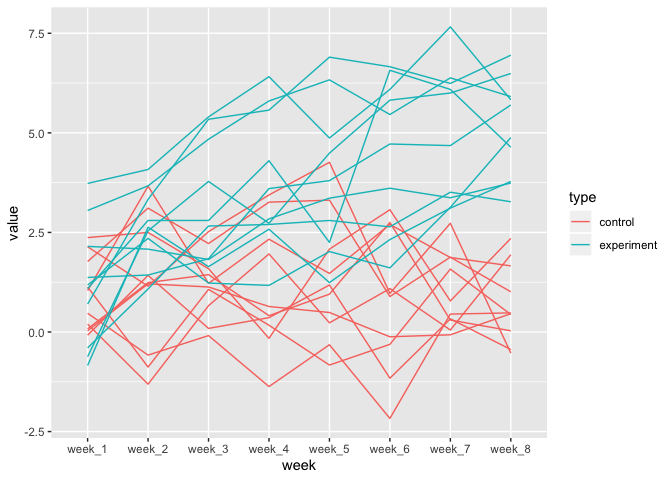
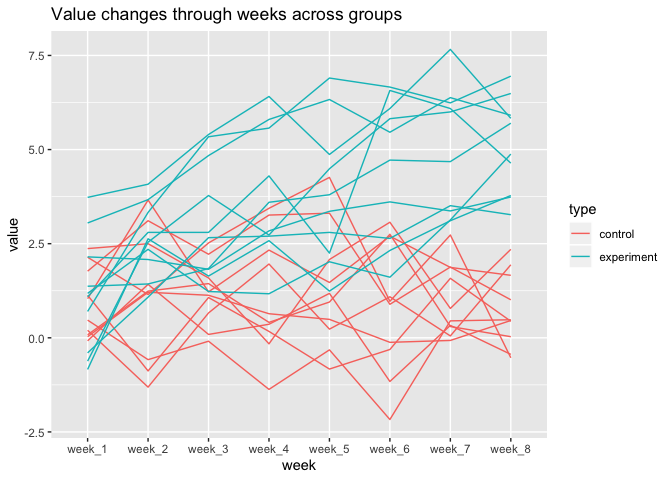
Commit of problem 3

diff --git a/p8105_hw5_qz2392.md b/p8105_hw5_qz2392.md
@@ -70,7 +70,10 @@ data %>%
     type_id = paste(type, "_", as.character(id), sep = "")
   ) %>% 
   ggplot(aes(x = week, y = value, group = type_id, color = type)) +
-  geom_line()
+  geom_line() +
+  labs(
+    title = "Value changes through weeks across groups"
+  )
 ```
 
 ![](p8105_hw5_qz2392_files/figure-gfm/unnamed-chunk-5-1.png)<!-- -->
@@ -79,3 +82,101 @@ The values of experiment group are generally higher than that of control
 group.
 
 # Problem 3
+
+``` r
+sim_regression = function(n = 30, beta0 = 2, beta1) {
+  
+  sim_data = tibble(
+    x = rnorm(n, mean = 1, sd = 1),
+    y = beta0 + beta1 * x + rnorm(n, 0, sqrt(50))
+  )
+  
+  ls_fit = lm(y ~ x, data = sim_data) %>% 
+    broom::tidy()
+  
+  tibble(
+    beta1_hat = ls_fit[[2]][[2]],
+    p_value = ls_fit[[5]][[2]]
+  )
+}
+
+sim_regression_repeat = function(beta1){
+
+  output = vector("list", 10000)
+
+  for (i in 1:10000) {
+  output[[i]] = sim_regression(n = 30, beta0 = 2, beta1)
+  }
+
+  sim_results = bind_rows(output)
+
+  return(sim_results)
+}
+```
+
+``` r
+sim = tibble(
+  beta1 = 0:6
+) 
+
+sim$data = 
+  sim %>% pull(beta1) %>% map(sim_regression_repeat)
+```
+
+``` r
+sim %>% 
+  unnest() %>% 
+  mutate(
+    reject = ifelse(p_value < 0.05, 1, 0)
+  ) %>%
+  group_by(beta1) %>% 
+  summarize(
+    power = length(reject[reject == 1])/length(reject)
+  ) %>% 
+  ggplot(aes(x = beta1, y = power)) +
+  geom_point() +
+  geom_line() +
+  labs(
+    title = "Power VS True beta 1"
+  )
+```
+
+![](p8105_hw5_qz2392_files/figure-gfm/unnamed-chunk-8-1.png)<!-- -->
+
+From the plot above we can see that as effect size increase, the power
+increase.
+
+``` r
+sim %>% 
+  unnest() %>%
+  mutate(
+    type = 'All samples'
+  ) %>% 
+  group_by(beta1) %>% 
+  mutate(
+    mean_beta1_hat = mean(beta1_hat)
+  ) %>% 
+  bind_rows(
+  sim %>% 
+  unnest() %>%
+  filter(p_value < 0.05) %>%
+  mutate(
+    type = 'Null rejected samples'
+  ) %>%  
+  group_by(beta1) %>% 
+  mutate(
+    mean_beta1_hat = mean(beta1_hat)
+  )) %>% 
+  ggplot(aes(x = beta1, y = mean_beta1_hat, color = type)) +
+  geom_line() +
+  geom_point() +
+  labs(
+    title = "Mean beta 1 hat VS True beta 1"
+  )
+```
+
+![](p8105_hw5_qz2392_files/figure-gfm/unnamed-chunk-9-1.png)<!-- --> The
+sample average of \(\hat\beta_1\) across tests for which the null is
+rejected is not approximately equal to the true value of \(\beta_1\).
+Because the location of samples with null rejected are farther from that
+of the null.
